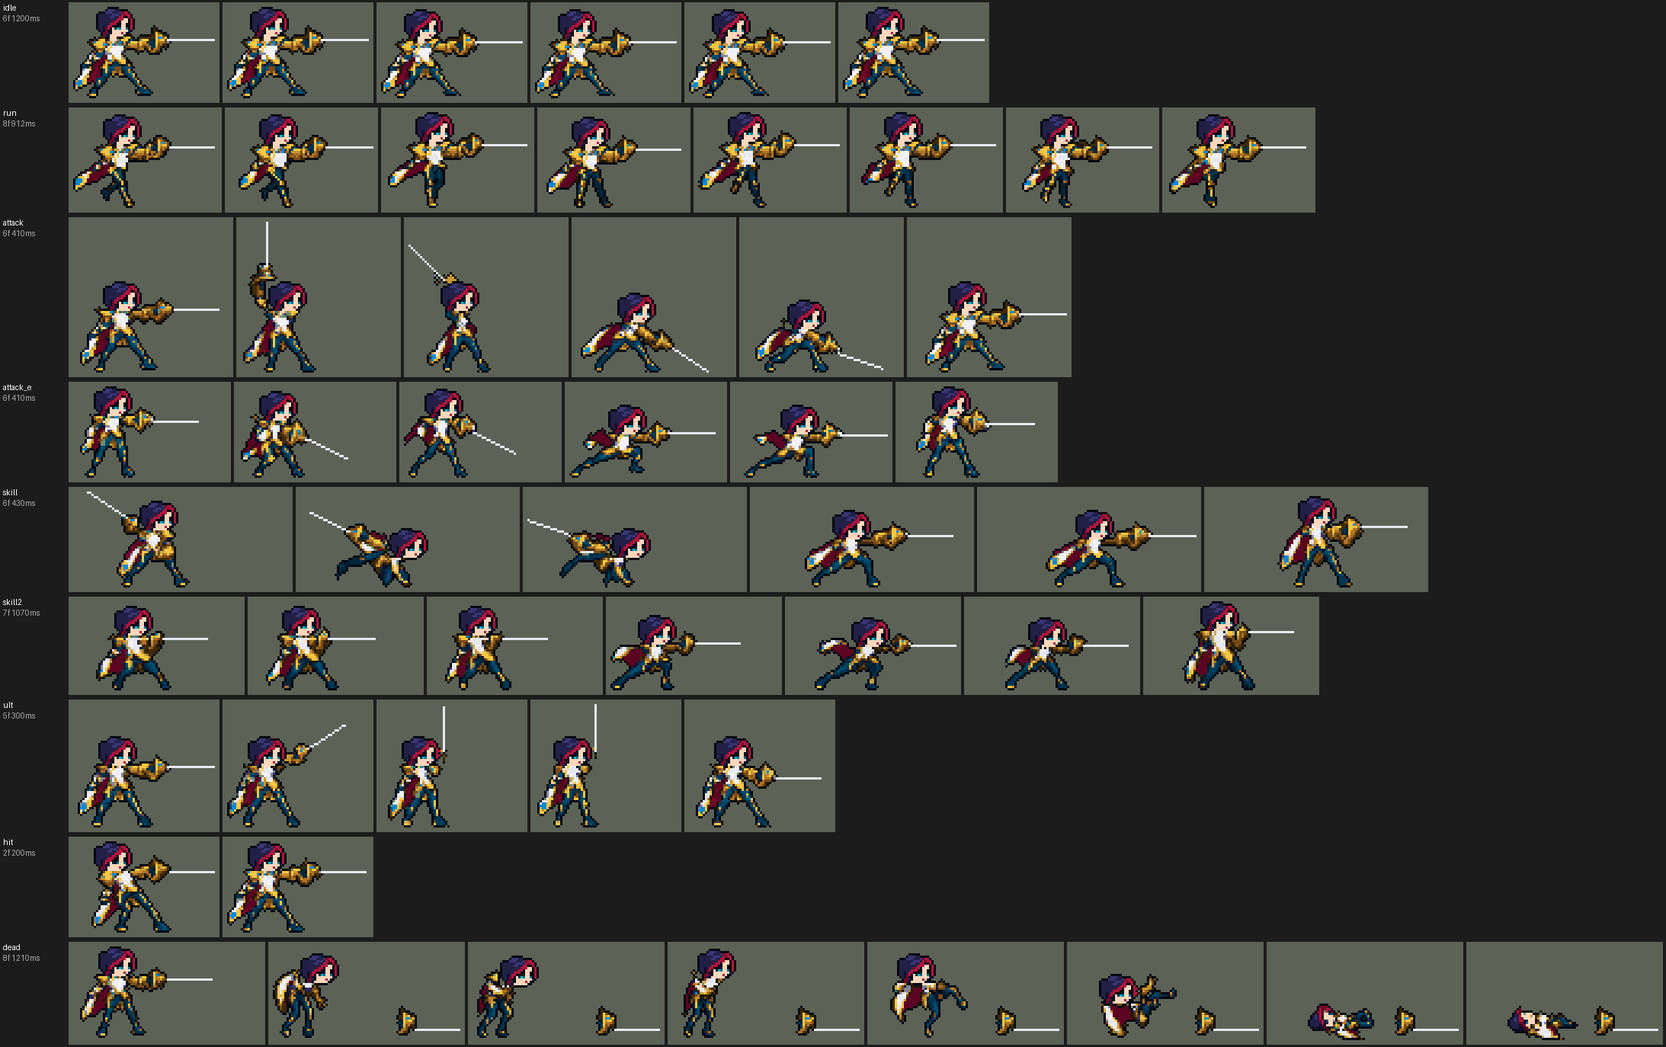
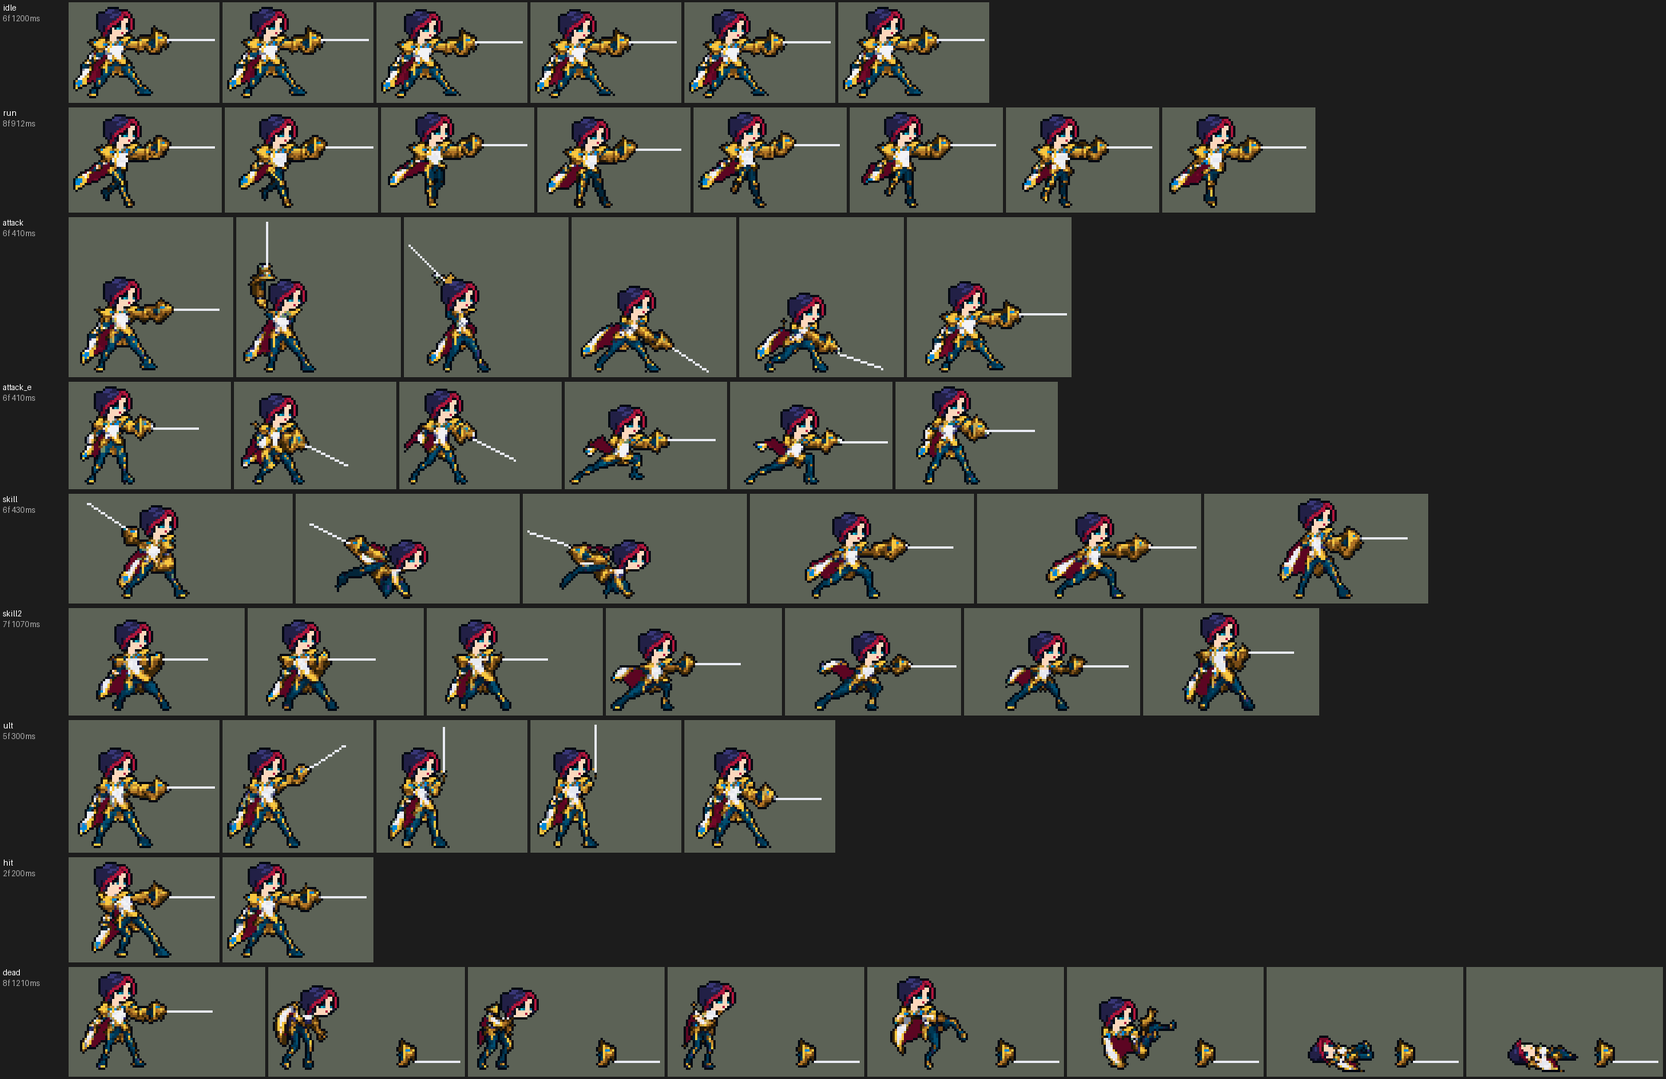
Fiora: her neck back in every action
The strips prompt said "no neck under the chin" (a rule for heads without a
neck), so Codex seated the design's head on the shirt in every action frame:
eyes 4-5 rows above the white shirt against the idle's 8, her short neck and
tall gold collar gone. The walk had been fixed alone; the user: "剑姬放技能的
时候脖子又消失 没修复吗？", "还是漏了".

import_native NECK_UP lifts the pasted head (the idle's head, 98% the same
pixels) back up and puts the idle's neck and collar rows under it, per frame:
rows and width from a judge per strip (7 columns where the shoulders face us,
5 where it would sit on a shoulder, cut on the raised sword's side; a gap
under the chin filled; NECK_EYES for the wince with shut eyes). The Q dash
(2-3) and the death frames whose head hangs ahead of the body (2-4) stay.
Eyes to shirt now 7-9 rows. art-spec: the no-neck rule's exception.

diff --git a/tools/art/import_native.py b/tools/art/import_native.py
@@ -66,6 +66,24 @@ NECK = {("nami", "run"): (-21, [0, 1, 2, 3])}
 # body centre move about 2 px at her size, its hip 3 (one 3-px snap from 4 to 5 read bouncy on a 40-px chibi). The
 # drawing already stands a row higher in 6-8.
 STEP = {("fiora", "run"): (-6, [1, 1, 0, 2, 0, 1, 2, 2], ["5C0522", "730928"])}
+# (hero, tag): per frame (rows, left, right[, "fill"]) or None, the pasted head put back on its neck: the design's
+# head moves up `rows` (the idle's head pixels round the eyes, down to the chin three rows under them) and the idle's
+# rows under its chin - the neck and the collar - go under it, `left`..`right` columns from the eyes, where the frame
+# is clear or had the head; "fill" also closes a clear gap under the chin with the idle's neck. Fiora's strips prompt
+# said "no neck under the chin", so Codex seated the head on the shirt in every action frame: eyes 4-5 rows above the
+# white shirt against the idle's 8, her short neck and tall gold collar gone (the user: "剑姬放技能的时候脖子又消失
+# 没修复吗？", "还是漏了"). Rows and widths per frame from a judge per strip: the wide collar (7) where the shoulders
+# are square to us, 5 where it would sit on a shoulder, cut on the side of a raised sword arm; the Q dash (2-3) stays
+# (League shows no neck there), as do the death frames whose head hangs ahead of the body (2-4).
+NECK_UP = {("fiora", "attack"): [(2, 7, 7), (1, 5, 4), (1, 5, 5, "fill"), (3, 7, 3), (3, 7, 3), None],
+           ("fiora", "attack_e"): [(3, 7, 7), (2, 7, 7), (3, 7, 7), (3, 7, 7), (3, 7, 7), (3, 7, 7)],
+           ("fiora", "skill"): [(3, 5, 5), None, None, (4, 5, 5), (4, 5, 5), (4, 5, 5)],
+           ("fiora", "skill2"): [(3, 5, 5)] * 6 + [(4, 5, 5)],
+           ("fiora", "ult"): [(4, 7, 7)] * 5,
+           ("fiora", "hit"): [(2, 7, 7), (2, 7, 7)],
+           ("fiora", "dead"): [(3, 7, 7), None, None, None, (4, 7, 7), (4, 7, 7), None, None]}
+# (hero, tag, frame): the eyes (pivot row, column) where the EYES colour is missing - her wince, eyes shut
+NECK_EYES = {("fiora", "hit", 0): (-19, 3)}
 # heroes whose outline strips.complete_outline closes on the finished frames (the skill's art-spec "Close the
 # outline": every hero from Nami on; the user: "后面英雄都要用的"). Nothing goes under the soles row; a frame that
 # already reaches lower (lying down) keeps its own bottom.
@@ -417,6 +435,74 @@ def touch_up(hero, sheet):
     return n
 
 
+def neck_up(hero, sheet):
+    """NECK_UP: the pasted head up its rows with the idle's neck and collar under it; the frames changed."""
+    changed = 0
+    if not any(h == hero for h, _ in NECK_UP):
+        return 0
+    eye = np.array(EYES[hero])
+    idle = sheet["idle"][0][0]
+    ys, xs = np.nonzero((idle[..., :3] == eye).all(-1) & (idle[..., 3] > 0))
+    iey, iex = int(ys.max()), int(round(xs.mean()))
+    head = [(y - iey, x - iex) for y, x in zip(*np.nonzero(idle[..., 3] > 0)) if y <= iey + 3 and abs(x - iex) <= 9]
+    for (h, tag), plan in NECK_UP.items():
+        if h != hero or tag not in sheet:
+            continue
+        for k, todo in enumerate(plan):
+            if not todo:
+                continue
+            rows, left, right = todo[:3]
+            a, ms = sheet[tag][k]
+            pad = rows + 16
+            c = np.pad(a, ((pad, pad), (pad, pad), (0, 0)))
+            cy, cx = c.shape[0] // 2, c.shape[1] // 2
+            if (hero, tag, k) in NECK_EYES:
+                dy, dx = NECK_EYES[(hero, tag, k)]
+                ey, ex = cy + dy, cx + dx
+            else:
+                ys, xs = np.nonzero((c[..., :3] == eye).all(-1) & (c[..., 3] > 0))
+                ey, ex = int(ys.max()), int(round(xs.mean()))
+            mine = [(dy, dx) for dy, dx in head if c[ey + dy, ex + dx, 3]
+                    and (c[ey + dy, ex + dx, :3] == idle[iey + dy, iex + dx, :3]).all()]
+            pix = {q: c[ey + q[0], ex + q[1]].copy() for q in mine}
+            for dy, dx in mine:
+                c[ey + dy, ex + dx] = 0
+            ney = ey - rows
+            for dy in range(4, 4 + rows):                       # the idle's neck and collar under the new chin
+                for dx in range(-left, right + 1):
+                    q = idle[iey + dy, iex + dx] if 0 <= iex + dx < idle.shape[1] else (0, 0, 0, 0)
+                    if q[3] and (c[ney + dy, ex + dx, 3] == 0 or ney + dy <= ey + 3):
+                        c[ney + dy, ex + dx] = q
+            for (dy, dx), p in pix.items():
+                c[ney + dy, ex + dx] = p
+            if "fill" in todo[3:]:                               # a clear gap under the chin: the idle's neck
+                for dy in range(4 + rows, 6 + rows):
+                    for dx in (-1, 0, 1):
+                        q = idle[iey + dy, iex + dx]
+                        if c[ney + dy, ex + dx, 3] == 0 and q[3]:
+                            c[ney + dy, ex + dx] = q
+            for dy, dx in mine:                                  # left open where the head was
+                y, x = ey + dy, ex + dx
+                if c[y, x, 3] == 0:
+                    near = [tuple(int(v) for v in c[y + yy, x + xx, :3]) for yy, xx in ((-1, 0), (1, 0), (0, -1), (0, 1))
+                            if c[y + yy, x + xx, 3]]
+                    if len(near) >= 3:
+                        c[y, x, :3] = max(set(near), key=near.count)
+                        c[y, x, 3] = 255
+            op = c[..., 3] > 0
+            pp = np.pad(op, 1)
+            shut = ~op & pp[:-2, 1:-1] & pp[2:, 1:-1] & pp[1:-1, :-2] & pp[1:-1, 2:]
+            shut[:max(0, ney - 14)] = False
+            shut[ney + 12:] = False
+            for y, x in zip(*np.nonzero(shut)):                  # clear pixels shut in on four sides
+                near = [tuple(int(v) for v in c[y + yy, x + xx, :3]) for yy, xx in ((-1, 0), (1, 0), (0, -1), (0, 1))]
+                c[y, x, :3] = max(set(near), key=near.count)
+                c[y, x, 3] = 255
+            sheet[tag][k] = (G.centre_frame(c, -cx, -cy), ms)
+            changed += 1
+    return changed
+
+
 def step(hero, sheet):
     """STEP: move the upper body of each frame, with its cape, down its rows over the legs; the frames moved."""
     moved = 0
@@ -564,6 +650,9 @@ def main():
                                  for p in glob.glob(os.path.join(SRC, "*_cells.json")))
     for hero in heroes:
         sheet, report = build(hero)
+        necks = neck_up(hero, sheet)
+        if necks:
+            print(f"{hero}: pasted head put back on its neck in {necks} frames")
         touched = touch_up(hero, sheet)
         if touched:
             print(f"{hero}_retouch.json: {touched} pixels retouched")

diff --git a/README.md b/README.md
@@ -67,7 +67,7 @@
 ![贾克斯演示：跑进场，Q 跳斩跳到德莱厄斯身上，落地用掉蓄力一击（落地尘土加紫能环）；三次普攻叠无情连打，第三下触发武器大师的被动（金色四角星）；E 反击风暴：灯柱在头顶一转，脚下紫色旋风转 1.5 秒，架势里照常挥击，结束时火环炸开、德莱厄斯眩晕 1 秒；蓄力一击好了再重砸一下；盖伦走到德莱厄斯身后，R 武器大师跳起砸地，裂地冲击波打中两人，之后脚下金色光环，改用反手突刺，每第二下触发被动，德莱厄斯倒下](docs/preview/league_jax_showcase.gif?v=0930jx)
 
 ![塔里克演示：跑进场先砸德莱厄斯一下；Q 星光之触和 W 坚毅壁垒：宝石飞到身后的艾希身上，给她护盾，她脚下亮起灵链印记，塔里克脚下的星光圈给自己回血，灵链让艾希身边也回血；正气凌人的两下强化普攻；盖伦绕到艾希身边；E 炫光：地上的星光蓄力 0.75 秒后在德莱厄斯身上爆开，灵链让艾希身边同一刻爆开、晕住盖伦；再两下强化普攻；两名敌人都在身边时 R 宇宙之辉：塔里克和艾希头顶亮起日冕、金色光柱落下，2.5 秒后两人无敌 2.5 秒](docs/preview/league_taric_showcase.gif?v=1001tc)
-![菲奥娜演示：跑进场，Q 破空斩冲到德莱厄斯身上（出发点留下尘土和风痕），这一刺在他身上亮出一处破绽（蓝色菱形纹章），顺带发动夺命连刺（她身边的蓝白光线）；第一下普攻减速并刺中破绽（蓝色玫瑰碎裂、她脚下的速度线），第二下暴击（金色 X 形闪光），再普攻一下；W 劳伦特心眼刀：身前的月牙剑光招架 0.75 秒，德莱厄斯砍在上面，随后一道剑气刺穿他，因为挡下过伤害，他眩晕 1 秒（头顶的金星），这一刺也亮出了下一处破绽（离上次刺中已过 3 秒）；R 无双挑战：举剑致意，他身边的金环亮出四处破绽，同时发动夺命连刺，两下快攻刺中两处（金色玫瑰碎裂，下一段少一枚），冷却好了的 Q 冲上去刺中第三处；德莱厄斯后撤，她追着跑、刺得慢了，刺中破绽后冷却减半的 Q 一回来就冲上去刺中第四处，他脚下留下胜利之地（金色光圈，冒着绿色和金色的光点），德莱厄斯倒下](docs/preview/league_fiora_showcase.gif?v=1001fi9)
+![菲奥娜演示：跑进场，Q 破空斩冲到德莱厄斯身上（出发点留下尘土和风痕），这一刺在他身上亮出一处破绽（蓝色菱形纹章），顺带发动夺命连刺（她身边的蓝白光线）；第一下普攻减速并刺中破绽（蓝色玫瑰碎裂、她脚下的速度线），第二下暴击（金色 X 形闪光），再普攻一下；W 劳伦特心眼刀：身前的月牙剑光招架 0.75 秒，德莱厄斯砍在上面，随后一道剑气刺穿他，因为挡下过伤害，他眩晕 1 秒（头顶的金星），这一刺也亮出了下一处破绽（离上次刺中已过 3 秒）；R 无双挑战：举剑致意，他身边的金环亮出四处破绽，同时发动夺命连刺，两下快攻刺中两处（金色玫瑰碎裂，下一段少一枚），冷却好了的 Q 冲上去刺中第三处；德莱厄斯后撤，她追着跑、刺得慢了，刺中破绽后冷却减半的 Q 一回来就冲上去刺中第四处，他脚下留下胜利之地（金色光圈，冒着绿色和金色的光点），德莱厄斯倒下](docs/preview/league_fiora_showcase.gif?v=1001fi10)
 
 ## 英雄：盖伦
 
@@ -1380,6 +1380,7 @@ python tools/art/preview_fiora.py
 - 动作参考（`poses.json`）：镜头 yaw 45、pitch 25，不镜像，头 2.3、腿 0.8、头发 0.6，细剑（`Weapon`）放大 2 倍、贴在右手上，高度 40，120×112 的格子。待机 `Fiora_Idle1`，移动 `fiora_runwalk`（8 帧 × 114 ms，平地，头保持待机时的样子），普攻 `fiora_attack1`，暴击 `fiora_crit`，Q `fiora_spell1` 接 `fiora_crit`，W `fiora_spell2_in`（3 帧 × 250 ms 招架）接 `fiora_spell2`（4 帧 × 80 ms 刺出），R 用致意 `fiora_taunt`（50/50/60/70/70 ms，共 18 tick），受击取 `fiora_death` 开头和待机混合，死亡 `fiora_death`。
 - 动作：Codex 按参考帧画了 9 条（每帧贴定稿的头）。移动的第一版 8 帧两条腿一直是同一条在前（用户选"给 Codex 返修走路"），返修包附一张指引图：英雄联盟的原版走路，近侧腿涂橙、远侧腿涂蓝；返修只改髋部以下（第 81–97 行）：第 1–3 帧近侧腿着地在前，第 5–7 帧远侧腿在前，第 3–4、7–8 帧两腿在身下交错。
 - 跑步的头（用户在游戏里看到「剑姬也有走路的时候 头和身体不协调的问题」）：Codex 把待机的头按待机的高度贴到了跑步上，可走路是直起身的（待机的弓步矮 3 行），下巴直接压在领口和举剑的手臂上（眼睛到衬衫 5 行、第 6–8 帧 4 行，待机是 8 行），身体在头下面上下晃、头不动。先用像素把头抬 2–3 行、垫上待机的脖子和高领，用户看了「还是有点怪」，就写了第二次返修包：Codex 把头、脖子、高领、肩膀、举剑的上臂和披风顶端重画成一体（头逐格照抄定稿，眼睛到衬衫每帧 8 行；腿、披风下半、细剑不动；交接说明 `codex_strips/HANDOFF_RUN_REDO2.md`），用户：「好像挺不错」。只是这一整块在迈开的腿上方几乎不动（只在第 6–8 帧高 1 行），而英雄联盟的走路落脚时（第 4 帧，两脚分得最开）整个上身往下沉、第 5–6 帧最高，头和身体一起动约 2 px（胯 3 px）。`import_native.py` `STEP` 把每帧胯（第 −6 行）以上整块下移 1、1、0、2、0、1、2、2 行、盖在腿上（腿根藏到胯下），从胯下穿过去的披风按它的两种酒红色整条挑出来一起移（只移胯以上时披风在那一行折出 3–4 格的台阶），加上原图第 6–8 帧高的那 1 行，是第 4 帧最低、第 5–6 帧最高、上下 2 px；照胯的 3 px 做时第 4→5 帧一下跳 3 行，40 行的小人看着像在蹦。用户：「加起伏吧」。再按用户的「这个可以清理一下 走路的时候也有不干净的地方」清理（`fiora_retouch.json`，在切好的帧上改 110 格，起伏和描边之前）：GPT 在前臂底下画了一排断断续续的深棕阴影，描边给每一段下面都挂了一个黑点，这一排改成一条完整的黑边；第 5 帧的细剑（连护手顶）比头早一帧抬高了 1 行，往下挪回其他帧的高度；披风在腰边漏掉的 1 格空隙用四周的酒红补上（描边绕着空隙画的一圈黑也跟着消失）；胯和腋下边上凸出的单个深色像素改成描边，不再挂出一个黑点；肩上一个被四面围住的空格补上。起伏把披风往下移时，披风边和腿之间偶尔夹出一个四面封闭的空格，`STEP` 用周围的颜色补上。
+- 动作里的脖子（用户：「剑姬放技能的时候脖子又消失 没修复吗？」「还是漏了」）：定稿的头下面是 3 格宽的短脖子和带宝石的金色高领，眼睛到白衬衫 8 行；动作条的提示词写了「下巴下面不要露出一截脖子」（别的英雄的贴头规则，套到有高领的剑姬身上是错的），Codex 就把定稿的头贴在了衬衫上：普攻、暴击、Q、W、R、受击、死亡几乎每帧眼睛到衬衫只有 4–5 行，脖子和高领都没了，修走路时也没把其他动作量一遍。`import_native.py` `NECK_UP` 在切好的帧上把贴的头（待机的头，98% 像素相同）抬回去，下面垫待机下巴下的脖子和高领那几行；每帧抬几行、垫多宽按每条动作一位评审逐帧定：肩膀正对我们时垫宽的（连肩甲顶，7 列），会压到肩膀时窄一点（5 列），举剑那一侧截短；普攻第 2、3 帧本来就差 1 行，第 3 帧下巴下的透明缺口用待机的脖子补上；受击第 1 帧是闭眼（`NECK_EYES` 给眼睛位置）。Q 冲刺的第 2、3 帧身体是横的、英雄联盟也看不到脖子，死亡第 2–4 帧头伸在身体前面，竖着垫脖子接不上，这几帧不动。修完各帧眼睛到衬衫 7–9 行。
 - 导入：待机 6 帧用定稿，第 3–5 帧从第 8 行（靴口）往下沉一格呼吸（`BOB`）；按眼睛的青色定头的位置（`EYES`）。Codex 按英雄联盟的站位放各条动作，头大约在站位点上方，而定稿的待机按脚的中间站，差 9 列，待机的站位点右移 9 列（`fiora_cells.json`）。描边补齐（`COMPLETE`）时，深青的腿（亮度约 58）和酒红的披风（约 44）不算描边，默认的阈值 70 会让 Q 的几帧只有 83–89% 的边是黑的，所以剑姬的阈值设为 40（`DARK`），补齐后 98–100%（细剑那一格裸线不算）。最后按用户的「黑色描边处理一下 弄干净点」再清一遍（`CLEAN`，`strips.clean_outline`，脸部那块不动）：外圈原来一段黑、一段是她最深的青、酒红、棕，统一成黑色（2213 格）；描边内侧多贴的一层黑削掉（168 格）；身体里散落的单个黑点换成周围的颜色（400 格）；斜线台阶外侧多出的一格去掉（271 格）；斜着的细剑断成一段段两格长的短线，描边补齐给每段两头都加了黑头，看起来是黑白虚线，只挨着剑身亮色的黑头全部去掉（`BARE`，172 格），剑身成了一条干净的亮线。用户又指出斜着的剑「也应该是直线的吧」：Codex 画的斜剑台阶长短不一（3、2、3、2、4），就算是严格的直线、角度不巧也会 2、3 格混排而显得抖，`strips.straighten_lines` 把每把长剑的斜率对到最近的整齐比例（水平、1:4、1:3、1:2、2:3、1:1），从护手开始按等长台阶重画（63 格）。头像截取点 (1, −39)。待机最高点 −28，按规则不用设 `banpick_center`（锐雯、薇恩、阿卡丽也是 −28），但平举的细剑会伸出选人卡片的右边，设 (0, −11) 让卡片把它裁在画布里（剑尖少一截）。
 - 特效用 Codex 画的 18 张（107 帧），交的是生图原稿（半透明边、颜色没锁色板、蓝色和金色的光外面包着一圈最深色）：`import_fiora.py --raw` 按交付清单切帧，每个游戏像素取它覆盖的原图像素的多数色、有三分之一不透明才画，颜色只吸到这张特效要的色阶（钢色、破绽蓝、金色、治疗绿、尘土），最深的蓝、金色在边上的一格去掉（旁边有两格更亮的撑住形状时）或提亮一级。按技能定大小：命中 16–20 px，暴击 26 px，破绽 14 px 高、刺中 30 px，R 刺中 32 px，招架月牙 44 px 高，W 剑气 56 px 长（直线 55000），减速寒气 20 px 宽，眩晕星 18 px，胜利之地 72 px 宽（半径 35000），夺命连刺的光线格子 36 px 宽（绕着她 40 px 的身体），速度线 26 px，尘土 32 px。W 剑气按白色的芯（第 71 行）上下镜像成严格对称（游戏会把它转到刺的方向）；招架月牙在 4 帧里左右漂了 35 个原图像素，按月牙最右边对齐；减速寒气的圈在第 4、5 帧往上跑，按圈最宽的几行对齐；R 起手的四枚破绽画得比常驻的散开，横向压到 72/84、下移 4 个原图像素，起手画完正好接上常驻的四枚（常驻的第一段因此从第 22 tick 开始）；刺中破绽的蓝色玫瑰缩到 30 px 后花瓣线比一格还细，底色从深蓝提亮一级。招架月牙原来挂在招架 buff 上，buff 的画面不随朝向镜像，她朝左出 W 时月牙跑到身后、和剑对不上（用户：「W格挡会和剑的位置不一致」），先改成 W 出手时播的施法者画面（朝左时镜像），但施法者画面只能朝左或朝右，往下出 W 时月牙立在身侧、和往下的剑气成直角（用户：「剑姬格挡还会歪？」，选了「跟着出招方向转」），最后挂在一个朝目标飞、每 tick 只爬 0.1 px 的投射物上（卢锡安 Q 的做法：从她身体中心指向目标，画面单独抬高 9 px）：月牙转到出招方向，和剑气一条线，上下镜像成对称（往左时整张图转 180°），每帧往回挪抵消投射物爬的距离，0.75 秒后是空帧；刺中破绽后脚下往后拖的速度线也一样（用户：「速度线也一样改了吧」），每次刺中播 0.75 秒（加速最强的那半段），大招里连着刺中时前后两段会叠一下。时长按技能：破绽和剩下的破绽每段 20 tick（技能每 20 tick 播一段），R 起手 22 tick，W 剑气 11 tick（直线存在的时间），眩晕星 1 秒，胜利之地 3 秒（1–2 帧展开，3–6 帧循环 6 次，7–8 帧散去）。
 - 出手时刻和动画对齐：普攻第 3 帧（第 9 tick），Q 在冲到目标身上时刺中（`MoveToTarget` 到达），W 招架 45 tick 后第 47 tick 刺出，R 致意 18 tick。

diff --git a/.claude/skills/tfm2-hero-mod/references/art-spec.md b/.claude/skills/tfm2-hero-mod/references/art-spec.md
@@ -193,6 +193,12 @@ The route used for Garen in TFM2-League-Heroes: prompts in `assets/source/<hero>
   at most), seat the chin on the shoulders with `"dy"`, and where a pose turns the torso thin under a big
   head, widen the rows under the chin (`restyle_native.py` `"shoulders"`). Check the ult and every
   side-on pose at game size, not only the idle the design was drawn on.
+  The exception: a design that has its own neck or collar between the chin and the chest keeps those rows in
+  every frame. league_fiora's strips prompt said "no neck under the chin", so Codex seated her pasted head on the
+  shirt in every action frame and her short neck and tall gold collar were gone (eyes 4-5 rows above the white
+  shirt against 8 in the design; the user: "剑姬放技能的时候脖子又消失 没修复吗？", "还是漏了" - only the walk had
+  been fixed). Write the design's eye-to-chest distance into the strips prompt, and before shipping measure it in
+  every frame of every action against the idle, not only in the strip the user pointed at.
 - **A big pasted head needs a body under it, not a pipe.** In the 0.21.0 pass the user still saw league_janna's
   neck and body apart: her drawn head is ~15 squares wide over a body League renders 5 squares wide at head 2.0,
   and in the attack and spells League turns her side-on and throws her legs back, so the little body hung off
